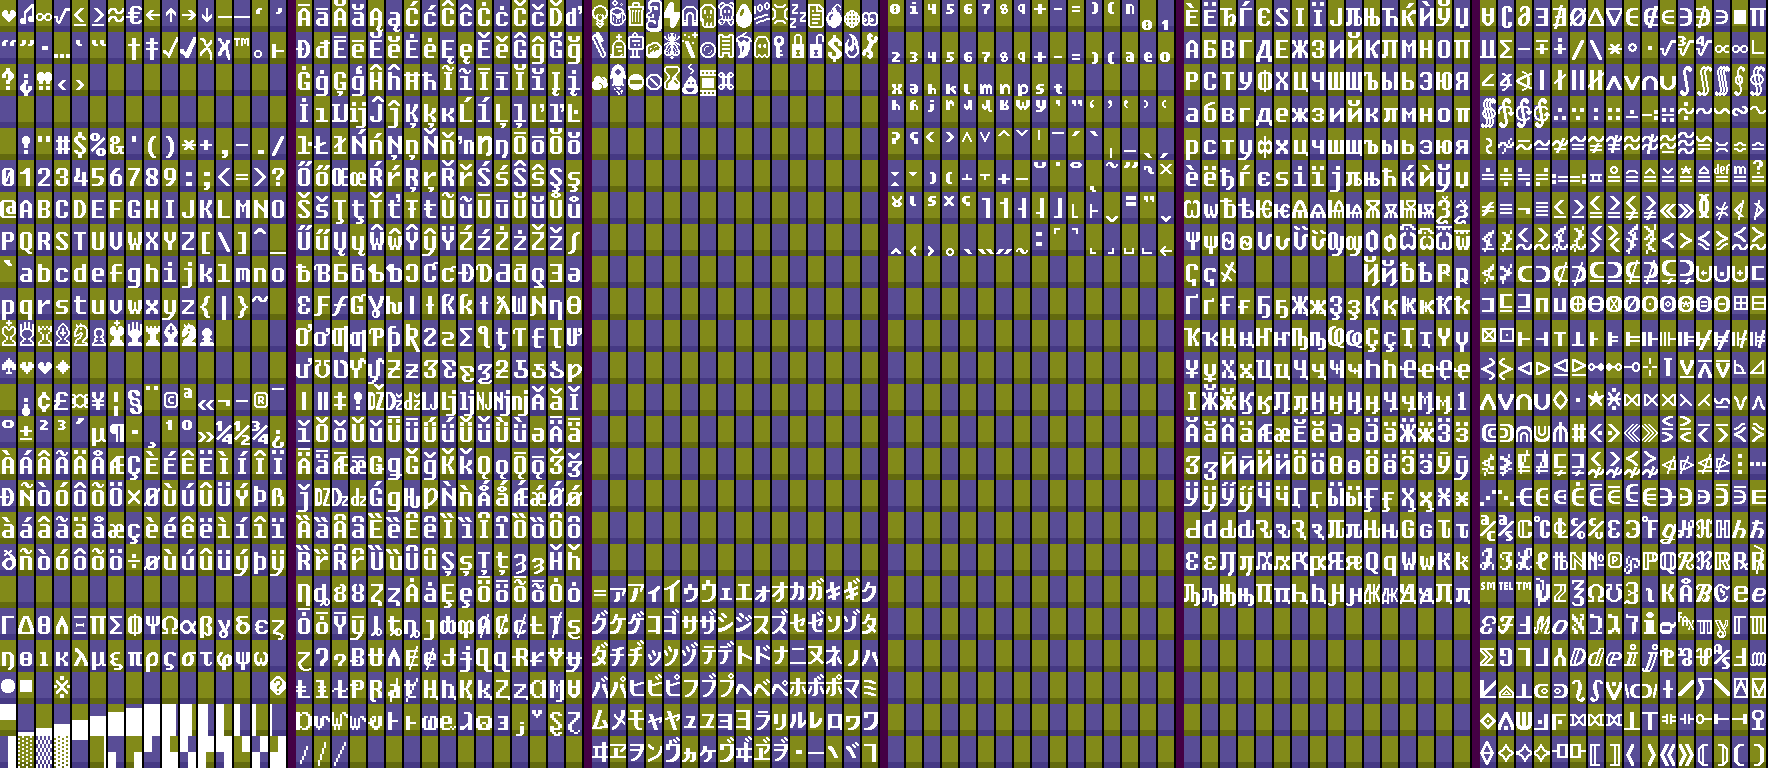
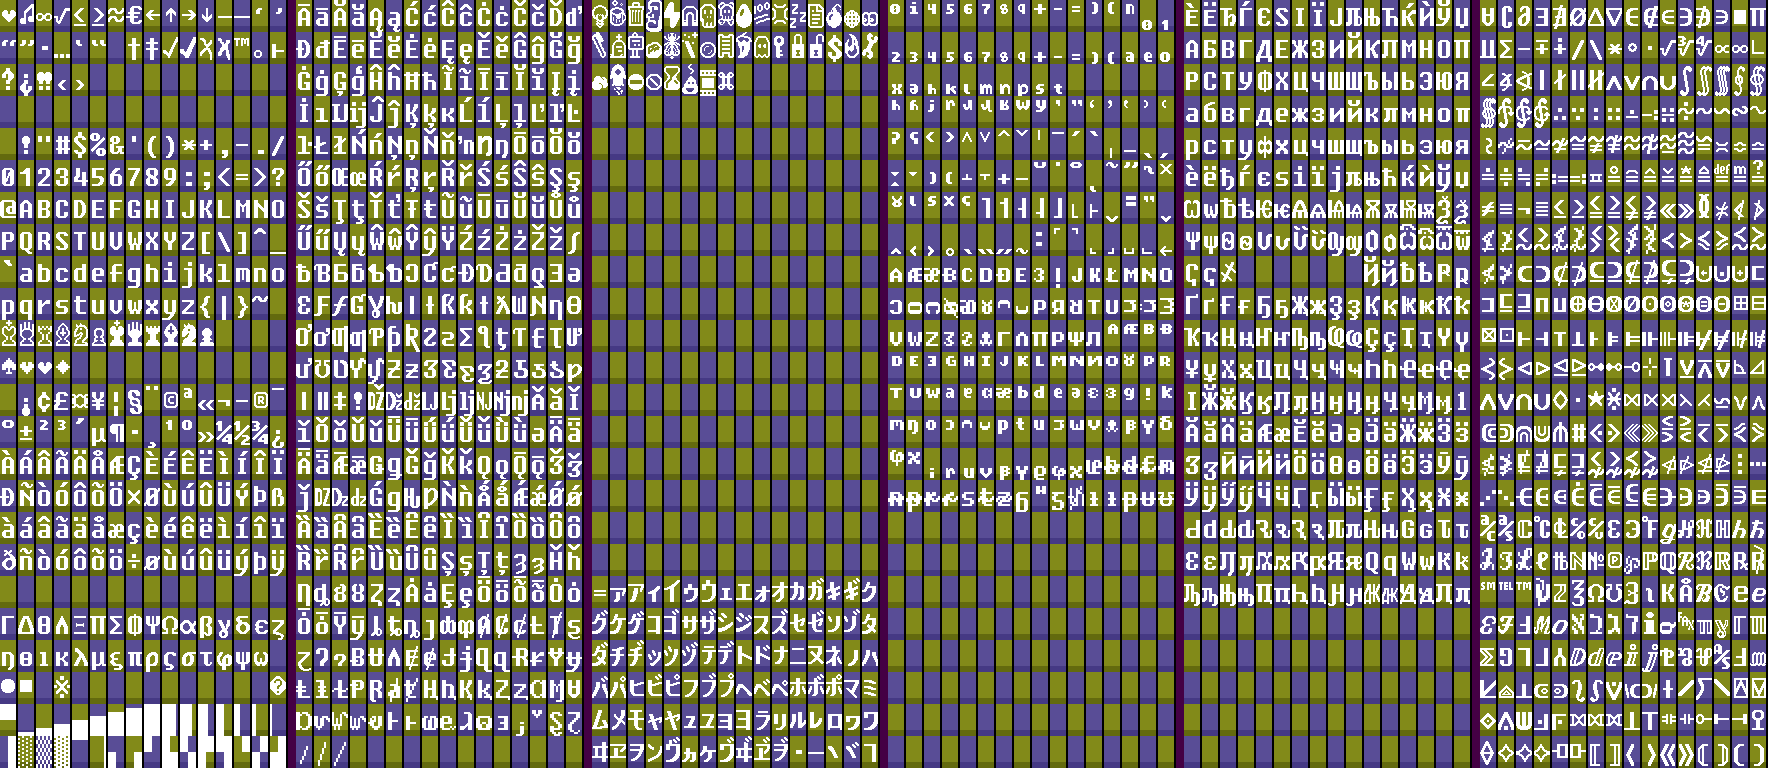
Finish 1x phonetic extensions, and 2x some of that
git-svn-id: file:///home/runner/work/tom7misc-sync-action/tom7misc-sync-action/upstream/trunk@6728 c7e11af0-4c7a-11f1-9edd-117cb6f09d55

Changed region(s): [[0.4977, 0.3438, 0.6533, 0.5625], [0.4977, 0.5938, 0.6844, 0.6562]]

diff --git a/bit7/font-image.cc b/bit7/font-image.cc
@@ -1011,17 +1011,139 @@ const std::vector<int> &PageBit7Extended2() {
     0x02FE, // (˾) Modifier Letter Open Shelf
     0x02FF, // (˿) Modifier Letter Low Left Arrow
 
+
+    // Unicode Phonetic Extensions
+
+    0x1D00, // (ᴀ) Latin Letter Small Capital A
+    0x1D01, // (ᴁ) Latin Letter Small Capital Ae
+    0x1D02, // (ᴂ) Latin Small Letter Turned Ae
+    0x1D03, // (ᴃ) Latin Letter Small Capital Barred B
+    0x1D04, // (ᴄ) Latin Letter Small Capital C
+    0x1D05, // (ᴅ) Latin Letter Small Capital D
+    0x1D06, // (ᴆ) Latin Letter Small Capital Eth
+    0x1D07, // (ᴇ) Latin Letter Small Capital E
+    0x1D08, // (ᴈ) Latin Small Letter Turned Open E
+    0x1D09, // (ᴉ) Latin Small Letter Turned I
+    0x1D0A, // (ᴊ) Latin Letter Small Capital J
+    0x1D0B, // (ᴋ) Latin Letter Small Capital K
+    0x1D0C, // (ᴌ) Latin Letter Small Capital L with Stroke
+    0x1D0D, // (ᴍ) Latin Letter Small Capital M
+    0x1D0E, // (ᴎ) Latin Letter Small Capital Reversed N
+    0x1D0F, // (ᴏ) Latin Letter Small Capital O
+    0x1D10, // (ᴐ) Latin Letter Small Capital Open O
+    0x1D11, // (ᴑ) Latin Small Letter Sideways O
+    0x1D12, // (ᴒ) Latin Small Letter Sideways Open O
+    0x1D13, // (ᴓ) Latin Small Letter Sideways O with Stroke
+    0x1D14, // (ᴔ) Latin Small Letter Turned Oe
+    0x1D15, // (ᴕ) Latin Letter Small Capital Ou
+    0x1D16, // (ᴖ) Latin Small Letter Top Half O
+    0x1D17, // (ᴗ) Latin Small Letter Bottom Half O
+    0x1D18, // (ᴘ) Latin Letter Small Capital P
+    0x1D19, // (ᴙ) Latin Letter Small Capital Reversed R
+    0x1D1A, // (ᴚ) Latin Letter Small Capital Turned R
+    0x1D1B, // (ᴛ) Latin Letter Small Capital T
+    0x1D1C, // (ᴜ) Latin Letter Small Capital U
+    0x1D1D, // (ᴝ) Latin Small Letter Sideways U
+    0x1D1E, // (ᴞ) Latin Small Letter Sideways Diaeresized U
+    0x1D1F, // (ᴟ) Latin Small Letter Sideways Turned M
+    0x1D20, // (ᴠ) Latin Letter Small Capital V
+    0x1D21, // (ᴡ) Latin Letter Small Capital W
+    0x1D22, // (ᴢ) Latin Letter Small Capital Z
+    0x1D23, // (ᴣ) Latin Letter Small Capital Ezh
+    0x1D24, // (ᴤ) Latin Letter Voiced Laryngeal Spirant
+    0x1D25, // (ᴥ) Latin Letter Ain
+    0x1D26, // (ᴦ) Greek Letter Small Capital Gamma
+    0x1D27, // (ᴧ) Greek Letter Small Capital Lamda
+    0x1D28, // (ᴨ) Greek Letter Small Capital Pi
+    0x1D29, // (ᴩ) Greek Letter Small Capital Rho
+    0x1D2A, // (ᴪ) Greek Letter Small Capital Psi
+    0x1D2B, // (ᴫ) Cyrillic Letter Small Capital El
+    0x1D2C, // (ᴬ) Modifier Letter Capital A
+    0x1D2D, // (ᴭ) Modifier Letter Capital Ae
+    0x1D2E, // (ᴮ) Modifier Letter Capital B
+    0x1D2F, // (ᴯ) Modifier Letter Capital Barred B
+    0x1D30, // (ᴰ) Modifier Letter Capital D
+    0x1D31, // (ᴱ) Modifier Letter Capital E
+    0x1D32, // (ᴲ) Modifier Letter Capital Reversed E
+    0x1D33, // (ᴳ) Modifier Letter Capital G
+    0x1D34, // (ᴴ) Modifier Letter Capital H
+    0x1D35, // (ᴵ) Modifier Letter Capital I
+    0x1D36, // (ᴶ) Modifier Letter Capital J
+    0x1D37, // (ᴷ) Modifier Letter Capital K
+    0x1D38, // (ᴸ) Modifier Letter Capital L
+    0x1D39, // (ᴹ) Modifier Letter Capital M
+    0x1D3A, // (ᴺ) Modifier Letter Capital N
+    0x1D3B, // (ᴻ) Modifier Letter Capital Reversed N
+    0x1D3C, // (ᴼ) Modifier Letter Capital O
+    0x1D3D, // (ᴽ) Modifier Letter Capital Ou
+    0x1D3E, // (ᴾ) Modifier Letter Capital P
+    0x1D3F, // (ᴿ) Modifier Letter Capital R
+    0x1D40, // (ᵀ) Modifier Letter Capital T
+    0x1D41, // (ᵁ) Modifier Letter Capital U
+    0x1D42, // (ᵂ) Modifier Letter Capital W
+    0x1D43, // (ᵃ) Modifier Letter Small A
+    0x1D44, // (ᵄ) Modifier Letter Small Turned A
+    0x1D45, // (ᵅ) Modifier Letter Small Alpha
+    0x1D46, // (ᵆ) Modifier Letter Small Turned Ae
+    0x1D47, // (ᵇ) Modifier Letter Small B
+    0x1D48, // (ᵈ) Modifier Letter Small D
+    0x1D49, // (ᵉ) Modifier Letter Small E
+    0x1D4A, // (ᵊ) Modifier Letter Small Schwa
+    0x1D4B, // (ᵋ) Modifier Letter Small Open E
+    0x1D4C, // (ᵌ) Modifier Letter Small Turned Open E
+    0x1D4D, // (ᵍ) Modifier Letter Small G
+    0x1D4E, // (ᵎ) Modifier Letter Small Turned I
+    0x1D4F, // (ᵏ) Modifier Letter Small K
+    0x1D50, // (ᵐ) Modifier Letter Small M
+    0x1D51, // (ᵑ) Modifier Letter Small Eng
+    0x1D52, // (ᵒ) Modifier Letter Small O
+    0x1D53, // (ᵓ) Modifier Letter Small Open O
+    0x1D54, // (ᵔ) Modifier Letter Small Top Half O
+    0x1D55, // (ᵕ) Modifier Letter Small Bottom Half O
+    0x1D56, // (ᵖ) Modifier Letter Small P
+    0x1D57, // (ᵗ) Modifier Letter Small T
+    0x1D58, // (ᵘ) Modifier Letter Small U
+    0x1D59, // (ᵙ) Modifier Letter Small Sideways U
+    0x1D5A, // (ᵚ) Modifier Letter Small Turned M
+    0x1D5B, // (ᵛ) Modifier Letter Small V
+    0x1D5C, // (ᵜ) Modifier Letter Small Ain
+    0x1D5D, // (ᵝ) Modifier Letter Small Beta
+    0x1D5E, // (ᵞ) Modifier Letter Small Greek Gamma
+    0x1D5F, // (ᵟ) Modifier Letter Small Delta
+    0x1D60, // (ᵠ) Modifier Letter Small Greek Phi
+    0x1D61, // (ᵡ) Modifier Letter Small Chi
+    0x1D62, // (ᵢ) Latin Subscript Small Letter I
+    0x1D63, // (ᵣ) Latin Subscript Small Letter R
+    0x1D64, // (ᵤ) Latin Subscript Small Letter U
+    0x1D65, // (ᵥ) Latin Subscript Small Letter V
+    0x1D66, // (ᵦ) Greek Subscript Small Letter Beta
+    0x1D67, // (ᵧ) Greek Subscript Small Letter Gamma
+    0x1D68, // (ᵨ) Greek Subscript Small Letter Rho
+    0x1D69, // (ᵩ) Greek Subscript Small Letter Phi
+    0x1D6A, // (ᵪ) Greek Subscript Small Letter Chi
+    0x1D6B, // (ᵫ) Latin Small Letter Ue
+    0x1D6C, // (ᵬ) Latin Small Letter B with Middle Tilde
+    0x1D6D, // (ᵭ) Latin Small Letter D with Middle Tilde
+    0x1D6E, // (ᵮ) Latin Small Letter F with Middle Tilde
+    0x1D6F, // (ᵯ) Latin Small Letter M with Middle Tilde
+    0x1D70, // (ᵰ) Latin Small Letter N with Middle Tilde
+    0x1D71, // (ᵱ) Latin Small Letter P with Middle Tilde
+    0x1D72, // (ᵲ) Latin Small Letter R with Middle Tilde
+    0x1D73, // (ᵳ) Latin Small Letter R with Fishhook and Middle Tilde
+    0x1D74, // (ᵴ) Latin Small Letter S with Middle Tilde
+    0x1D75, // (ᵵ) Latin Small Letter T with Middle Tilde
+    0x1D76, // (ᵶ) Latin Small Letter Z with Middle Tilde
+    0x1D77, // (ᵷ) Latin Small Letter Turned G
+    0x1D78, // (ᵸ) Modifier Letter Cyrillic En
+    0x1D79, // (ᵹ) Latin Small Letter Insular G
+    0x1D7A, // (ᵺ) Latin Small Letter Th with Strikethrough
+    0x1D7B, // (ᵻ) Latin Small Capital Letter I with Stroke
+    0x1D7C, // (ᵼ) Latin Small Letter Iota with Stroke
+    0x1D7D, // (ᵽ) Latin Small Letter P with Stroke
+    0x1D7E, // (ᵾ) Latin Small Capital Letter U with Stroke
+    0x1D7F, // (ᵿ) Latin Small Letter Upsilon with Stroke
+
     // Free to a good home
-
-    -1, -1, -1, -1, -1, -1, -1, -1, -1, -1, -1, -1, -1, -1, -1, -1,
-    -1, -1, -1, -1, -1, -1, -1, -1, -1, -1, -1, -1, -1, -1, -1, -1,
-    -1, -1, -1, -1, -1, -1, -1, -1, -1, -1, -1, -1, -1, -1, -1, -1,
-    -1, -1, -1, -1, -1, -1, -1, -1, -1, -1, -1, -1, -1, -1, -1, -1,
-
-    -1, -1, -1, -1, -1, -1, -1, -1, -1, -1, -1, -1, -1, -1, -1, -1,
-    -1, -1, -1, -1, -1, -1, -1, -1, -1, -1, -1, -1, -1, -1, -1, -1,
-    -1, -1, -1, -1, -1, -1, -1, -1, -1, -1, -1, -1, -1, -1, -1, -1,
-    -1, -1, -1, -1, -1, -1, -1, -1, -1, -1, -1, -1, -1, -1, -1, -1,
 
     -1, -1, -1, -1, -1, -1, -1, -1, -1, -1, -1, -1, -1, -1, -1, -1,
     -1, -1, -1, -1, -1, -1, -1, -1, -1, -1, -1, -1, -1, -1, -1, -1,
